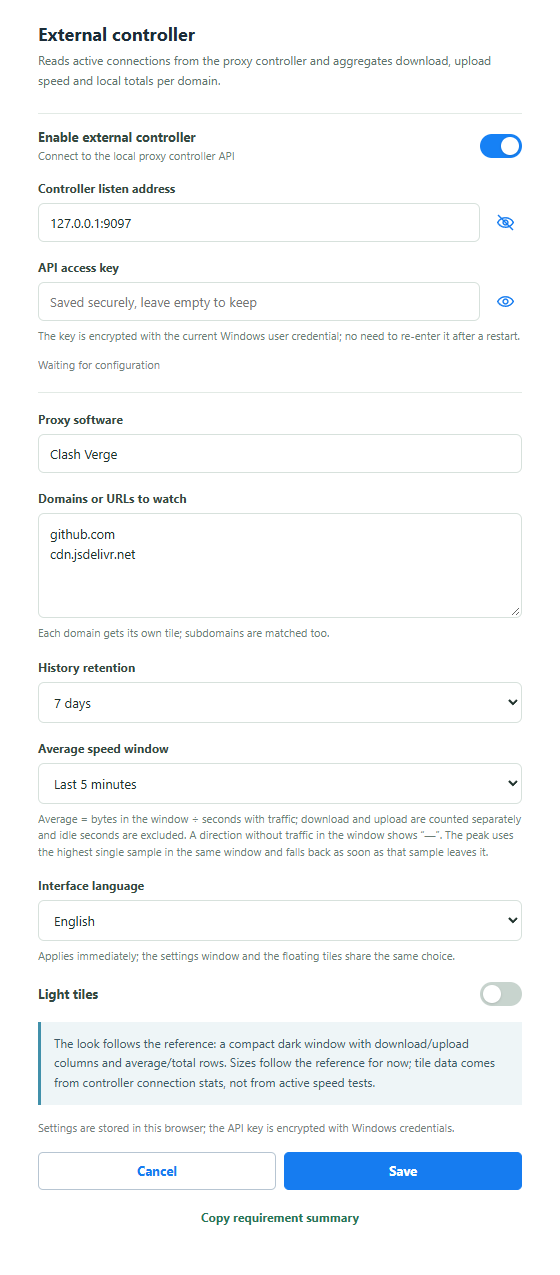
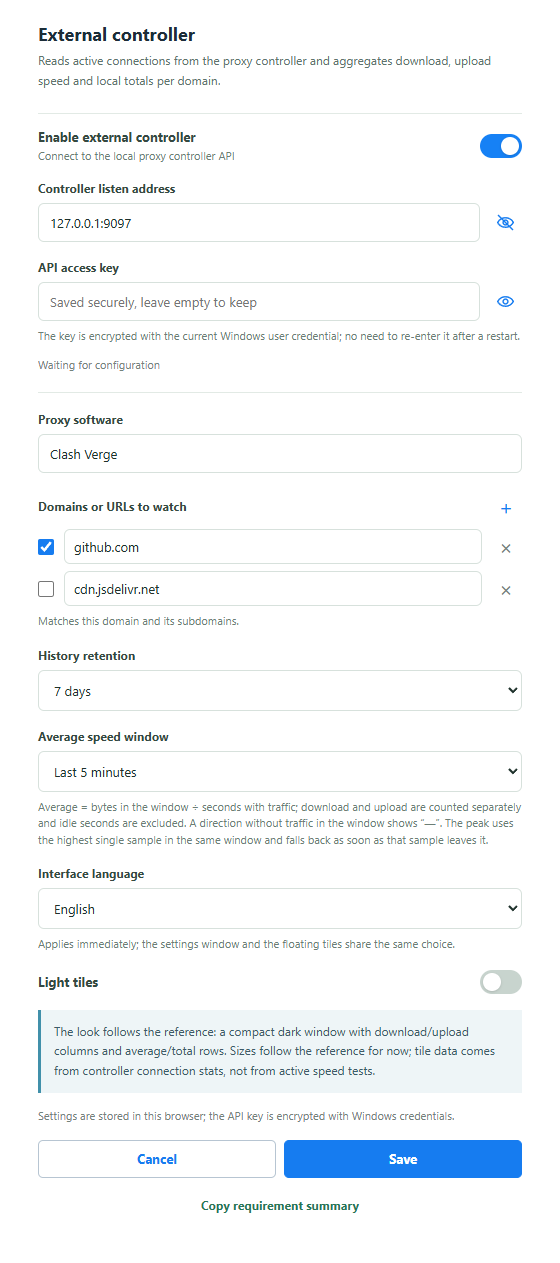
feat(settings): editable website entries with visibility checkboxes / 网址条目与显示勾选

diff --git a/index.html b/index.html
@@ -84,6 +84,18 @@
     .icon-button { width: 34px; height: 34px; display: grid; place-items: center; padding: 0; border: 0; border-radius: 5px; color: #167cf0; background: transparent; }
     .icon-button svg { width: 19px; height: 19px; fill: none; stroke: currentColor; stroke-width: 1.8; stroke-linecap: round; stroke-linejoin: round; }
     .icon-button:hover { background: #edf5ff; }
+    .domain-list-head { display: flex; align-items: center; justify-content: space-between; min-height: 32px; }
+    .domain-list-title { color: #344941; font-size: 12px; font-weight: 700; }
+    .domain-list { display: grid; gap: 7px; min-width: 0; }
+    .domain-entry { display: grid; grid-template-columns: 18px minmax(0, 1fr) 32px; gap: 8px; align-items: center; min-width: 0; }
+    .domain-entry input[type="checkbox"] { width: 16px; height: 16px; margin: 0; padding: 0; accent-color: #167cf0; cursor: pointer; }
+    .domain-entry .domain-url { min-width: 0; padding: 8px 9px; }
+    .domain-entry .domain-url:invalid:not(:placeholder-shown) { border-color: #bc6842; }
+    .domain-entry .icon-button, .domain-list-head .icon-button { width: 32px; height: 32px; font-size: 21px; line-height: 1; }
+    .domain-entry .domain-remove { color: #74827b; }
+    .domain-entry .domain-remove:hover { color: #bc6842; background: #fff3ee; }
+    .domain-empty { margin: 0; padding: 8px 0; color: #74827b; font-size: 12px; }
+    .domain-entry input[type="checkbox"]:focus-visible, .domain-entry button:focus-visible, .domain-list-head button:focus-visible { outline: 2px solid #167cf0; outline-offset: 2px; }
     .controller-status { min-height: 18px; margin: -4px 0 13px; color: #74827b; font-size: 11px; }
     .controller-status[data-state="connected"] { color: #288b63; }
     .controller-status[data-state="error"] { color: #bc6842; }
@@ -197,7 +209,7 @@
           <p id="controllerStatus" class="controller-status" data-state="idle" data-i18n="settings.statusWaiting">等待保存配置</p>
         </section>
         <div class="field"><label for="proxyApp" data-i18n="settings.proxyApp">代理软件</label><input id="proxyApp" type="text" value="Clash Verge" placeholder="例如 Clash Verge" autocomplete="off" data-i18n-placeholder="settings.proxyAppPlaceholder"></div>
-        <div class="field"><label for="domains" data-i18n="settings.domains">要看的域名或 URL</label><textarea id="domains" placeholder="每行一个，例如：\nexample.com\napi.example.com" data-i18n-placeholder="settings.domainsPlaceholder"></textarea><small data-i18n="settings.domainsHint">每个域名对应一个方格；会匹配该域名及其子域名。</small></div>
+        <div class="field"><div class="domain-list-head"><span id="domainsLabel" class="domain-list-title" data-i18n="settings.domains">要看的域名或 URL</span><button id="addDomain" class="icon-button" type="button" aria-label="添加网址" title="添加网址" data-i18n-aria="settings.addDomain" data-i18n-title="settings.addDomain">+</button></div><div id="domains" class="domain-list" role="list" aria-labelledby="domainsLabel"></div><small data-i18n="settings.domainsHint">匹配该域名及其子域名。</small></div>
         <div class="field"><label for="history" data-i18n="settings.retention">历史流量保留</label><select id="history"><option value="7天">7 天</option><option value="30天">30 天</option><option value="长期">长期</option></select></div>
         <div class="field"><label for="avgWindow" data-i18n="settings.avgWindow">均速统计窗口</label><select id="avgWindow"><option value="2分钟">最近 2 分钟</option><option value="5分钟" selected>最近 5 分钟</option><option value="10分钟">最近 10 分钟</option></select><small data-i18n="settings.avgWindowHint">均速 = 窗口内的流量 ÷ 有流量的秒数；下载与上传分别计算，空闲秒不计入分母。窗口内该方向没有流量时显示「—」。峰值采用同一窗口内的最高单次速度，样本滑出窗口后自动回落。</small></div>
         <div class="field"><label for="language" data-i18n="settings.language">界面语言</label><select id="language"><option value="zh">简体中文</option><option value="en">English</option></select><small data-i18n="settings.languageHint">界面语言立即生效；设置页与悬浮方格共用同一个选择。</small></div>
@@ -248,7 +260,7 @@
           'history.curveLabel': '最近 24 小时均速曲线',
           'history.pointDown': '下载均速 {value}',
           'history.pointUp': '上传均速 {value}',
-          'meter.empty': '先在设置中添加要观察的域名',
+          'meter.empty': '尚未选择显示的网址',
           'meter.down': '下载',
           'meter.up': '上传',
           'meter.total': '累计',
@@ -280,8 +292,15 @@
           'settings.proxyApp': '代理软件',
           'settings.proxyAppPlaceholder': '例如 Clash Verge',
           'settings.domains': '要看的域名或 URL',
-          'settings.domainsPlaceholder': '每行一个，例如：\nexample.com\napi.example.com',
-          'settings.domainsHint': '每个域名对应一个方格；会匹配该域名及其子域名。',
+          'settings.domainsPlaceholder': 'example.com 或 https://example.com',
+          'settings.domainsHint': '匹配该域名及其子域名。',
+          'settings.addDomain': '添加网址',
+          'settings.removeDomain': '移除网址 {index}',
+          'settings.domainEntry': '网址 {index}',
+          'settings.domainVisible': '显示网址 {index} 的方格',
+          'settings.domainsEmpty': '暂无网址',
+          'settings.duplicateDomain': '该网址已存在',
+          'settings.domainRequired': '请填写网址',
           'settings.retention': '历史流量保留',
           'settings.retention7': '7 天',
           'settings.retention30': '30 天',
@@ -351,7 +370,7 @@
           'history.curveLabel': 'Average speed curve for the last 24 hours',
           'history.pointDown': 'Down avg {value}',
           'history.pointUp': 'Up avg {value}',
-          'meter.empty': 'Add a domain to watch in Settings first',
+          'meter.empty': 'No websites selected for display',
           'meter.down': 'Down',
           'meter.up': 'Up',
           'meter.total': 'Total',
@@ -383,8 +402,15 @@
           'settings.proxyApp': 'Proxy software',
           'settings.proxyAppPlaceholder': 'e.g. Clash Verge',
           'settings.domains': 'Domains or URLs to watch',
-          'settings.domainsPlaceholder': 'One per line, e.g.:\nexample.com\napi.example.com',
-          'settings.domainsHint': 'Each domain gets its own tile; subdomains are matched too.',
+          'settings.domainsPlaceholder': 'example.com or https://example.com',
+          'settings.domainsHint': 'Matches this domain and its subdomains.',
+          'settings.addDomain': 'Add website',
+          'settings.removeDomain': 'Remove website {index}',
+          'settings.domainEntry': 'Website {index}',
+          'settings.domainVisible': 'Show tile for website {index}',
+          'settings.domainsEmpty': 'No websites yet',
+          'settings.duplicateDomain': 'This website already exists',
+          'settings.domainRequired': 'Enter a website',
           'settings.retention': 'History retention',
           'settings.retention7': '7 days',
           'settings.retention30': '30 days',
@@ -538,13 +564,98 @@
       let secretConfigured = false;
       const historyBuckets = new Map();
 
+      function normalizeDomainEntries(stored) {
+        const source = Array.isArray(stored?.domainEntries) ? stored.domainEntries : (stored?.domains || []);
+        const entries = new Map();
+        if (!Array.isArray(source)) return [];
+        source.forEach(value => {
+          const url = (typeof value === 'string' ? value : value?.url);
+          if (typeof url !== 'string' || !url.trim()) return;
+          const name = url.trim();
+          const visible = typeof value === 'string' || value.visible !== false;
+          const previous = entries.get(name);
+          entries.set(name, { url: name, visible: visible || Boolean(previous?.visible) });
+        });
+        return [...entries.values()];
+      }
+
+      function readDomainEntries() {
+        return Array.from(fields.domains.querySelectorAll('.domain-entry'), row => ({
+          url: row.querySelector('.domain-url').value.trim(),
+          visible: row.querySelector('.domain-visible').checked
+        })).filter(entry => entry.url);
+      }
+
+      function refreshDomainLabels() {
+        const seen = new Set();
+        fields.domains.querySelectorAll('.domain-entry').forEach((row, index) => {
+          const input = row.querySelector('.domain-url');
+          input.placeholder = t('settings.domainsPlaceholder');
+          input.setAttribute('aria-label', t('settings.domainEntry', { index: index + 1 }));
+          const checkbox = row.querySelector('.domain-visible');
+          checkbox.title = t('settings.domainVisible', { index: index + 1 });
+          checkbox.setAttribute('aria-label', checkbox.title);
+          const remove = row.querySelector('.domain-remove');
+          remove.title = t('settings.removeDomain', { index: index + 1 });
+          remove.setAttribute('aria-label', remove.title);
+          const name = input.value.trim();
+          input.setCustomValidity(!name ? t('settings.domainRequired') : seen.has(name) ? t('settings.duplicateDomain') : '');
+          if (name) seen.add(name);
+        });
+        const empty = fields.domains.querySelector('.domain-empty');
+        if (empty) empty.textContent = t('settings.domainsEmpty');
+      }
+
+      function createDomainEntry(entry) {
+        const row = document.createElement('div');
+        row.className = 'domain-entry';
+        row.setAttribute('role', 'listitem');
+        const checkbox = document.createElement('input');
+        checkbox.type = 'checkbox';
+        checkbox.className = 'domain-visible';
+        checkbox.checked = entry.visible !== false;
+        const input = document.createElement('input');
+        input.type = 'text';
+        input.className = 'domain-url';
+        input.value = entry.url;
+        input.required = true;
+        input.autocomplete = 'off';
+        input.spellcheck = false;
+        const remove = document.createElement('button');
+        remove.type = 'button';
+        remove.className = 'icon-button domain-remove';
+        remove.textContent = '×';
+        remove.addEventListener('click', () => {
+          const neighbour = row.nextElementSibling || row.previousElementSibling;
+          row.remove();
+          if (!fields.domains.querySelector('.domain-entry')) renderDomainEntries([]);
+          else refreshDomainLabels();
+          (neighbour?.querySelector('.domain-url') || document.getElementById('addDomain')).focus();
+          markSettingsDirty();
+        });
+        row.append(checkbox, input, remove);
+        return row;
+      }
+
+      function renderDomainEntries(entries) {
+        fields.domains.replaceChildren(...entries.map(createDomainEntry));
+        if (!entries.length) {
+          const empty = document.createElement('p');
+          empty.className = 'domain-empty';
+          fields.domains.append(empty);
+        }
+        refreshDomainLabels();
+      }
+
       function readValues() {
+        const domainEntries = readDomainEntries();
         return {
           controllerEnabled: fields.enabled.checked,
           controllerAddress: fields.address.value.trim(),
           controllerSecret: fields.secret.value,
           proxyApp: fields.app.value.trim(),
-          domains: fields.domains.value.split(/\r?\n/).map(value => value.trim()).filter(Boolean),
+          domains: domainEntries.map(entry => entry.url),
+          domainEntries,
           history: fields.history.value,
           avgWindow: fields.avgWindow.value,
           lightTheme: fields.theme.checked
@@ -552,11 +663,17 @@
       }
 
       function targetNames() {
-        const names = [...new Set(readValues().domains)];
+        const entries = readDomainEntries();
+        const names = entries.map(entry => entry.url);
         const available = new Set(names);
+        const visible = new Set(entries.filter(entry => entry.visible).map(entry => entry.url));
         meterOrder = meterOrder.filter(name => available.has(name));
         names.forEach(name => { if (!meterOrder.includes(name)) meterOrder.push(name); });
-        return [...meterOrder];
+        return meterOrder.filter(name => visible.has(name));
+      }
+
+      function trackedTargetNames() {
+        return [...new Set(readValues().domains)];
       }
 
       function emptyMetric() {
@@ -666,6 +783,7 @@
         document.body.classList.toggle('lang-en', language === 'en');
         if (fields.language) fields.language.value = language;
         applyStaticTranslations();
+        refreshDomainLabels();
         applyConnectionState();
         applySecretStorageState();
         setInputVisibility(fields.address, addressVisibility, addressVisible, 'settings.hideAddress', 'settings.showAddress');
@@ -693,13 +811,14 @@
         try {
           const values = readValues();
           const stored = JSON.parse(localStorage.getItem(KEY) || '{}');
-          const totals = view === 'widget' ? {} : (stored.historyTotals || {});
+          const totals = { ...(stored.historyTotals || {}) };
           if (view === 'widget') metrics.forEach((metric, name) => { totals[name] = { down: metric.totalDown, up: metric.totalUp }; });
           const next = view === 'widget' ? { ...stored, historyTotals: totals, layoutOrder: [...meterOrder], meterPositions } : {
             controllerEnabled: values.controllerEnabled,
             controllerAddress: values.controllerAddress,
             proxyApp: values.proxyApp,
             domains: values.domains,
+            domainEntries: values.domainEntries,
             history: values.history,
             avgWindow: values.avgWindow,
             lightTheme: values.lightTheme,
@@ -723,11 +842,11 @@
           const stored = JSON.parse(localStorage.getItem(KEY) || 'null');
           fields.secret.value = '';
           settingsDirty = false;
+          renderDomainEntries(normalizeDomainEntries(stored));
           if (!stored) return;
           fields.enabled.checked = stored.controllerEnabled !== false;
           fields.address.value = stored.controllerAddress || '127.0.0.1:9097';
           fields.app.value = stored.proxyApp || 'Clash Verge';
-          fields.domains.value = Array.isArray(stored.domains) ? stored.domains.join('\n') : '';
           fields.history.value = ['7天', '30天', '长期'].includes(stored.history) ? stored.history : '7天';
           fields.avgWindow.value = Object.keys(AVERAGE_WINDOWS).includes(stored.avgWindow) ? stored.avgWindow : DEFAULT_AVERAGE_WINDOW;
           lightTheme = Boolean(stored.lightTheme);
@@ -829,7 +948,7 @@
       }
 
       function ensureMeterPositions(names) {
-        const next = {};
+        const next = { ...meterPositions };
         names.forEach((name, index) => {
           next[name] = validMeterPosition(meterPositions[name])
             ? { x: meterPositions[name].x, y: meterPositions[name].y }
@@ -840,7 +959,7 @@
 
       function normalizeMeterLayout() {
         const names = targetNames();
-        ensureMeterPositions(names);
+        ensureMeterPositions(trackedTargetNames());
         const positions = names.map(name => meterPositions[name]).filter(Boolean);
         if (!positions.length) return;
         const minX = Math.min(...positions.map(position => position.x));
@@ -947,7 +1066,7 @@
 
       function renderMeters() {
         const names = targetNames();
-        ensureMeterPositions(names);
+        ensureMeterPositions(trackedTargetNames());
         const namesKey = JSON.stringify(names);
         if (namesKey !== renderedNames || lightTheme !== renderedTheme || language !== renderedLanguage) {
         meters.replaceChildren(...(names.length ? names.map(createMeter) : [Object.assign(document.createElement('p'), { className: 'meter-empty', textContent: t('meter.empty') })]));
@@ -1168,7 +1287,7 @@
           shiftOtherMeters(dragState.name, moved.deltaX, moved.deltaY);
           positionY = 0;
         }
-        const otherPositions = Object.entries(meterPositions).filter(([name]) => name !== dragState.name).map(([, position]) => position);
+        const otherPositions = targetNames().filter(name => name !== dragState.name).map(name => meterPositions[name]);
         const wantedWidth = Math.max(positionX + 186, innerWidth, ...otherPositions.map(position => position.x + 186));
         const wantedHeight = Math.max(positionY + 154, innerHeight, ...otherPositions.map(position => position.y + 154));
         if (wantedWidth > dragState.canvasWidth || wantedHeight > dragState.canvasHeight) {
@@ -1647,7 +1766,7 @@
           const list = Array.isArray(payload.connections) ? payload.connections : [];
           const now = Date.now();
           const elapsed = lastSampleAt ? Math.max(.1, (now - lastSampleAt) / 1000) : 1;
-          const targets = targetNames();
+          const targets = trackedTargetNames();
           const deltas = new Map(targets.map(name => [name, { down: 0, up: 0 }]));
           const activeTargets = new Set();
           const nextCounters = new Map();
@@ -1743,6 +1862,15 @@
         renderMeters();
         setConnectionState('idle', 'status.dirty');
       };
+      document.getElementById('addDomain').addEventListener('click', () => {
+        fields.domains.querySelector('.domain-empty')?.remove();
+        const row = createDomainEntry({ url: '', visible: true });
+        fields.domains.append(row);
+        refreshDomainLabels();
+        row.querySelector('.domain-url').focus();
+        markSettingsDirty();
+      });
+      fields.domains.addEventListener('input', refreshDomainLabels);
       const eyeIcon = '<svg viewBox="0 0 24 24" aria-hidden="true"><path d="M2 12s3.5-6 10-6 10 6 10 6-3.5 6-10 6S2 12 2 12Z"/><circle cx="12" cy="12" r="3"/></svg>';
       const eyeOffIcon = '<svg viewBox="0 0 24 24" aria-hidden="true"><path d="M2 12s3.5-6 10-6 10 6 10 6-3.5 6-10 6S2 12 2 12Z"/><circle cx="12" cy="12" r="3"/><path d="M3 3l18 18"/></svg>';
       const setInputVisibility = (input, button, visible, hideKey, showKey) => {
@@ -1820,7 +1948,9 @@
         if (event.key !== KEY || view !== 'widget') return;
         try {
           const stored = JSON.parse(event.newValue || '{}');
+          renderDomainEntries(normalizeDomainEntries(stored));
           fields.avgWindow.value = Object.keys(AVERAGE_WINDOWS).includes(stored.avgWindow) ? stored.avgWindow : DEFAULT_AVERAGE_WINDOW;
+          if (!historyPanel.hidden && !targetNames().includes(historyTarget)) closeHistory();
           renderMeters();
         } catch { /* another window wrote malformed settings */ }
       });

diff --git a/AGENT_MEMORY.md b/AGENT_MEMORY.md
@@ -3,7 +3,7 @@
 ## 用户目标
 
 - Windows 上常驻一个接近托盘大小的悬浮方格。
-- 每个方格对应一个用户填写的域名或 URL，展示本机代理与该域名之间的实时下载/上传速度、均速（可点切换峰值）和累计流量。
+- 网址用可增删、直接编辑的条目列表管理，勾选后才显示对应方格；展示本机代理与该域名之间的实时下载/上传速度、均速（可点切换峰值）和累计流量。
 - 均速口径（用户确认）：按设置页选定的最近 2/5/10 分钟滑动窗口统计，分母只算「有流量的活跃秒」，下载与上传各自独立判定；窗口内该方向无流量显示「—」。默认 5 分钟。
 - 数据来自本机代理控制器活动连接的字节计数，不主动测速；外观参考用户截图，尺寸先保持紧凑，之后再调。
 
@@ -13,7 +13,7 @@
 - `server.mjs` 只监听回环地址，可接收启动时恢复的控制器配置，并代理 `/connections` 请求；禁用状态保留密钥，只停止采集。
 - `index.html` 同时支持设置视图和 `?view=widget` 悬浮视图；浏览器设置和历史仍与密钥分离，历史按分钟写入 IndexedDB。
 - `main.mjs` 使用 Electron 异步 `safeStorage` 将控制器地址、启用状态和密钥加密到当前用户的应用数据目录；密钥不进入 `localStorage`、项目文件或日志。`preload.cjs`、`package.json` 继续提供 Electron 置顶小窗、托盘显隐和设置窗口；方格不再使用 `-webkit-app-region: drag` 标题栏，普通左键整窗拖动走即时的 `widget:move-fast` IPC，`widget:move` 只用于需要返回实际位移的操作。
-- 域名按控制器连接的目标主机匹配，子域名归并；历史保留支持 7 天、30 天和长期。
+- 网址条目存为 `domainEntries: [{ url, visible }]`，兼容保留 `domains` 数组；旧字符串数组由 `normalizeDomainEntries` 迁移为全选。保存/取消沿用设置流程，空白与重复值禁止保存。`targetNames` 只返回勾选项，`trackedTargetNames` 返回全部条目供轮询；隐藏仍采集，历史与累计保留，全部不选显示空状态。新增默认勾选；删除不清历史，编辑到不同网址使用新统计目标。域名匹配包含子域名。
 - 紧凑卡片约 180×148；主速度 17px，标签 12px，统计行 13px；方向箭头用 SVG 细描边，统计行箭头略小于实时行。每秒轮询仅更新现有节点，避免替换按钮导致点击/焦点丢失。
 - 峰值与均速共用设置页选定的同一时间窗口：峰值是窗口内该方向有流量的最高单次采样速度，样本滑出窗口后自动回落，不再保留会话级峰值；均速和峰值可在各方格独立切换，切换仅在当前渲染会话保持。
 - 实现：`pollConnections` 每秒为每个域名记录一条 `{ at, down, up, elapsed }` 样本到 `metric.rateSamples`，只保留最长 10 分钟；`windowRates(samples, cutoff)` 在渲染时一次遍历按当前窗口裁剪，分别累加该方向有流量样本的字节与 `elapsed` 得到均速，同时取 `sample.down / sample.elapsed` 的最大值得到峰值；无活跃样本返回 `null`，由 `formatRate` 显示为「—」。`currentRates` 每次渲染用 `Date.now()` 重算，因此窗口过期、切换窗口、断连都会实时反映。旧的 `sessionDown/sessionUp/activeSeconds`、`metric.peakDown/peakUp` 累计和 `metric.samples` 已移除。样本只存内存，不落盘；窗口设置 `avgWindow` 存在 `localStorage` 的 `netmeter-controller-v2`，设置页保存后主进程重载悬浮窗使其生效。
@@ -41,7 +41,7 @@
 
 ## 验证
 
-- 2026-11-06 复核：`npm test` 43/43 通过，覆盖密钥不泄漏到状态响应、启用/禁用配置、对齐落位、窗口化均速与峰值、历史均速、历史标签记忆和双语字典；`index.html` 内嵌脚本及 Electron 脚本语法检查通过。正式 Electron 实例已重启并在 4174 监听，`/api/status` 返回已启用且已配置；实机历史均速已确认铺满横轴，保留历史均速面板打开供用户查看；桌面控制与实例租约已释放。
+- 2026-11-06 复核：`npm test` 50/50 通过，覆盖密钥不泄漏到状态响应、启用/禁用配置、对齐落位、窗口化均速与峰值、历史均速、历史标签记忆和双语字典；`index.html` 内嵌脚本及 Electron 脚本语法检查通过。正式 Electron 实例已重启并在 4174 监听，`/api/status` 返回已启用且已配置；实机设置页已确认旧网址迁移为可勾选编辑条目，原选择未改动；设置页保持打开供用户操作；桌面控制与实例租约已释放。
 - `layout.test.mjs` 从 `index.html` 直接取出 `nearestAlignment` 与 `settleMeterPosition` 两个纯函数做单元测试：8px 阈值、落点保持指针位置、邻近方格不得改写坐标、拖动中位置不受对齐影响。
 - `average.test.mjs`（10 项）取出 `windowRates`、`trimRateSamples`、`averageWindowMs` 做纯函数测试：均速与峰值共用窗口裁剪及边界、下载/上传各自独立分母、空闲秒排除、`elapsed` 加权、空窗返回 `null`、峰值取单次采样最大值且滑出窗口即过期、样本裁剪、2/5/10 分钟映射与默认 5 分钟，并断言会话级累计字段已移除。
 - `scripts/average-probe.cjs` 用离屏 Electron 真实窗口 + 合成控制器（下载恒定 100B/s、上传恒为 0）验证 10 项：设置页三档下拉与默认值、保存写入 `localStorage`、重载恢复、悬浮窗读到 2 分钟窗口、只有下载有流量时 `100B/s` 且上传显示「—」、停流后均速不衰减（实测 97.3B/s）、切换峰值显示窗口内峰值、把渲染器时钟快进 3 分钟后峰值与均速都回落为「—」、无脚本错误。运行需 `env -u ELECTRON_RUN_AS_NODE node_modules/electron/dist/electron.exe scripts/average-probe.cjs`；本会话环境默认带 `ELECTRON_RUN_AS_NODE=1`，不取消会让 Electron 退化成普通 Node，且 `.mjs` 探针在当前 Electron 45 里无法解析 `electron` 具名导出，故用 `.cjs`。
@@ -55,6 +55,7 @@
 - 仓库已初始化为 Git 仓库并推送到 `https://github.com/Augmigrow/NetMeter.git`（私有仓库，默认分支 `main`）。GitHub 需要走系统代理 `http://127.0.0.1:7897`，直连超时；代理配置写在仓库本地 `.git/config` 的 `http.proxy`/`https.proxy`。凭据用 Windows 凭据管理器的 GitHub oauth token，Git Credential Manager 会自动提供，不要把 token 写进文件或命令行。本仓库作者身份按兄弟仓库统一为 `Augmigrow <3123196845@qq.com>`，只在仓库本地配置。
 - `scripts/start-app.ps1` 负责重启应用：先杀掉旧的 NetMeter electron 进程，再用 `node_modules/electron/dist/electron.exe .` 启动并轮询 `http://127.0.0.1:4174/api/status` 直到就绪。Windows 下 Electron 是 GUI 子系统进程，必须先 `Remove-Item Env:ELECTRON_RUN_AS_NODE`（本会话环境默认带 `ELECTRON_RUN_AS_NODE=1`）。`scripts/run-probe.ps1` 是通用探针启动器。
 - `scripts/drag-probe.cjs` 现有 15 项场景（含逐帧采样、远距离、不松手、整窗拖动、副屏坐标、先鼠标后 Ctrl 切换），全部通过。
+- `domain-entries.test.mjs` 7 项验证迁移、显示筛选、隐藏持续采集与累计保留；独立配置的 `scripts/domain-entries-probe.cjs` 20/20 验证增删编辑、保存取消、重载记忆、全不选、中英文控件、560/440px 无溢出，并更新中英文设置页截图。
 - `history-speed.test.mjs`（13 项）测试分钟曲线、方向独立活跃秒、空闲秒排除、2/5/10 分钟窗口、跨分钟双向突发与方格 `windowRates` 定量一致、旧记录缺秒不臆造 60 秒且按方向断开、同分钟新数据合并仍保留旧记录未知秒数；另测历史标签记忆和回退、首尾裁剪后全宽映射、内部断档、单点与空集。
 - `i18n.test.mjs`（12 项）直接从 `index.html` 取出 `I18N` 字典做纯函数测试：中英键集合完全一致、没有空文案、英文文案不含中文、占位符两边一致、`t()` 能替换占位符并在缺键时回退到中文、标记里的 `data-i18n*` 钩子和 JS 里的 `t('key')` 引用都指向存在的键、语言下拉框存在且语言不写进设置对象、`setLanguage` 会重绘方格与历史面板、悬浮方格通过 `storage` 事件跟随、主进程托盘菜单与窗口标题已本地化。
 - `scripts/i18n-probe.cjs` 用离屏 Electron 真实窗口验证双语渲染与切换；最近保存的探针日志为 27/27 通过，覆盖中英文方格文案、`<html lang>`、标题与 aria 文案、语言落盘、历史面板标题与标签、摘要四列、曲线 aria-label 与悬停提示、切回中文、另一个窗口（设置页）跟随切换、下拉框显示文案翻译但取值不变、标签文字与箭头间距 ≥3px、无渲染脚本错误。

diff --git a/README.md b/README.md
@@ -63,7 +63,7 @@ npm start
 ## 控制器配置
 
 - 地址填写代理控制器的本机 HTTP API 地址，默认 `127.0.0.1:9097`。
-- 在 API 密钥框输入访问密钥，然后在域名框每行填写一个域名；路径不参与匹配，子域名会归并到对应方格。监听地址和密钥右侧的眼睛按钮只在显示与隐藏之间切换，不写入剪贴板。
+- 在 API 密钥框输入访问密钥；网址使用条目列表，点“+”新增、在输入框直接编辑、点“×”移除。每条左侧的复选框控制是否显示方格，保存后生效并记住选择；取消勾选仍保留条目和历史，继续采集，重新勾选即可恢复。旧网址自动迁移为已勾选条目。路径不参与匹配，子域名会归并到对应方格。监听地址和密钥右侧的眼睛按钮只在显示与隐藏之间切换，不写入剪贴板。
 - 保存后，小窗每秒读取一次控制器活动连接并比较字节计数增量，得出当前速度。控制器只提供活动连接时，连接结束前未被轮询到的最后一段流量可能无法计入。
 - 密钥不写入 `localStorage`、项目文件或日志，而是由 Electron `safeStorage` 使用 Windows 当前用户凭据加密保存。首次输入后，重启应用无需再次输入；密钥框留空会继续使用已保存值。禁用控制器不会删除已保存密钥，只有更换控制器地址时才需要重新输入。
 - 历史流量按分钟聚合到当前本机浏览器配置的 IndexedDB，可选保留 7 天、30 天或长期；新分钟样本同时记录下载与上传各自的有流量秒数，供历史均速曲线使用；旧样本可能缺少活跃秒，无法精确计算均速。详情图表展示最近 24 小时。累计总量保存在浏览器本地设置中。
@@ -86,7 +86,7 @@ node server.mjs
 npm test
 ```
 
-`npm test` 覆盖均速与峰值口径、历史曲线、拖动对齐、服务端密钥处理和双语字典一致性。离屏 Electron 探针位于 `scripts/`：`i18n-probe.cjs` 校验中英文渲染与语言切换，`screenshot-probe.cjs` 生成 `docs/screenshots/` 下的效果图，`history-curve-probe.cjs` 校验历史曲线与标签栏。
+`npm test` 覆盖均速与峰值口径、历史曲线、拖动对齐、服务端密钥处理和双语字典一致性。离屏 Electron 探针位于 `scripts/`：`i18n-probe.cjs` 校验中英文渲染与语言切换，`screenshot-probe.cjs` 生成 `docs/screenshots/` 下的效果图，`history-curve-probe.cjs` 校验历史曲线与标签栏，`domain-entries-probe.cjs` 校验网址条目的增删编辑、显示选择与重载记忆，并更新中英文设置页效果图。
 
 ---
 
@@ -124,7 +124,7 @@ The tray menu, the settings window title and the tile right-click menu follow th
 ## Controller configuration
 
 - The address is the local HTTP API address of your proxy controller; it defaults to `127.0.0.1:9097`.
-- Enter the access key in the API key box, then list one domain per line in the domains box. Paths do not participate in matching, and subdomains are folded into the matching tile. The eye buttons next to the listen address and the key only toggle between showing and hiding; they never write to the clipboard.
+- Enter the access key in the API key box. Websites are editable list entries: use “+” to add one, edit its input directly, or use “×” to remove it. The checkbox controls whether its tile is shown. Save to apply and remember the selection. Unchecked entries keep collecting traffic and retain their history; check them again to restore the tile. Existing websites migrate as checked entries. Paths do not participate in matching, and subdomains are folded into the matching tile. The eye buttons next to the listen address and the key only toggle between showing and hiding; they never write to the clipboard.
 - After saving, the small window reads the controller's active connections once per second and compares the byte counters to derive the current speed. When the controller only exposes active connections, the last stretch of traffic before a connection ends may not be counted.
 - The key is never written to `localStorage`, project files or logs. Electron's `safeStorage` encrypts it with the current Windows user credential. After the first entry the app restarts without asking again; leaving the key box empty keeps the saved value. Disabling the controller does not delete the saved key — only changing the controller address requires a new one.
 - Traffic history is aggregated per minute into the IndexedDB of the local browser profile and can be kept for 7 days, 30 days or forever. New minute samples record the active seconds of download and upload independently for the average-speed curve; older samples may lack those seconds and cannot yield an exact average. The detail chart shows the last 24 hours. Cumulative totals are kept in the browser's local settings.
@@ -147,4 +147,4 @@ Open `http://127.0.0.1:4174/`. This mode has no Windows tray and no separate alw
 npm test
 ```
 
-`npm test` covers the average and peak definitions, the history curve, drag alignment, the server-side secret handling and the consistency of the bilingual dictionary. The offscreen Electron probes live in `scripts/`: `i18n-probe.cjs` verifies the Chinese and English rendering and the language switch, `screenshot-probe.cjs` produces the images under `docs/screenshots/`, and `history-curve-probe.cjs` verifies the history curve and its tab bar.
+`npm test` covers the average and peak definitions, the history curve, drag alignment, the server-side secret handling and the consistency of the bilingual dictionary. The offscreen Electron probes live in `scripts/`: `i18n-probe.cjs` verifies the Chinese and English rendering and the language switch, `screenshot-probe.cjs` produces the images under `docs/screenshots/`, and `history-curve-probe.cjs` verifies the history curve and its tab bar, and `domain-entries-probe.cjs` checks website editing, visibility and reload persistence while updating the bilingual settings screenshots.

diff --git a/UI_DESIGN_SPEC.md b/UI_DESIGN_SPEC.md
@@ -140,6 +140,9 @@
 - 设置内容最大宽度 520px，使用白色背景和单一纵向信息流。
 - 表单控件圆角 4–6px，主按钮使用 `#167cf0`，成功状态使用绿色语义色，错误状态使用橙红色语义色。
 - 监听地址和 API 密钥右侧使用显示/隐藏按钮，不使用复制按钮。
+- 网址以条目列表管理，不使用多行文本框：每行是 16px 原生复选框、可直接编辑的网址输入框和 32px 删除图标按钮；标题右侧用“+”添加条目，各按钮有双语悬停说明和键盘焦点，不添加嵌套卡片。
+- 只有勾选条目显示方格；取消勾选只隐藏方格，保留条目与累计、历史数据并继续采集，重新勾选即可恢复。新增条目默认勾选，旧网址自动迁移为已勾选；允许全部不勾选，此时保留空状态和设置入口。
+- 增删、编辑、勾选沿用设置页保存/取消流程，保存后选择状态跨重启保留；空白或完全重复的网址禁止保存。删除条目不擦除已记录的历史，编辑成不同网址使用新的统计目标，不把旧网址流量归到新网址。
 - 主题、历史保留、均速统计窗口和其他全局偏好只在设置页提供。
 - 均速统计窗口是设置页的下拉框，提供“最近 2 分钟 / 5 分钟 / 10 分钟”三档，默认 5 分钟，紧随历史流量保留之后；可用一行 11px 小字说明均速口径，方格和历史视图不得加入解释文字。
 - API 密钥提示必须说明 Windows 凭据加密保存；已有密钥时显示“已安全保存，留空继续使用”。
